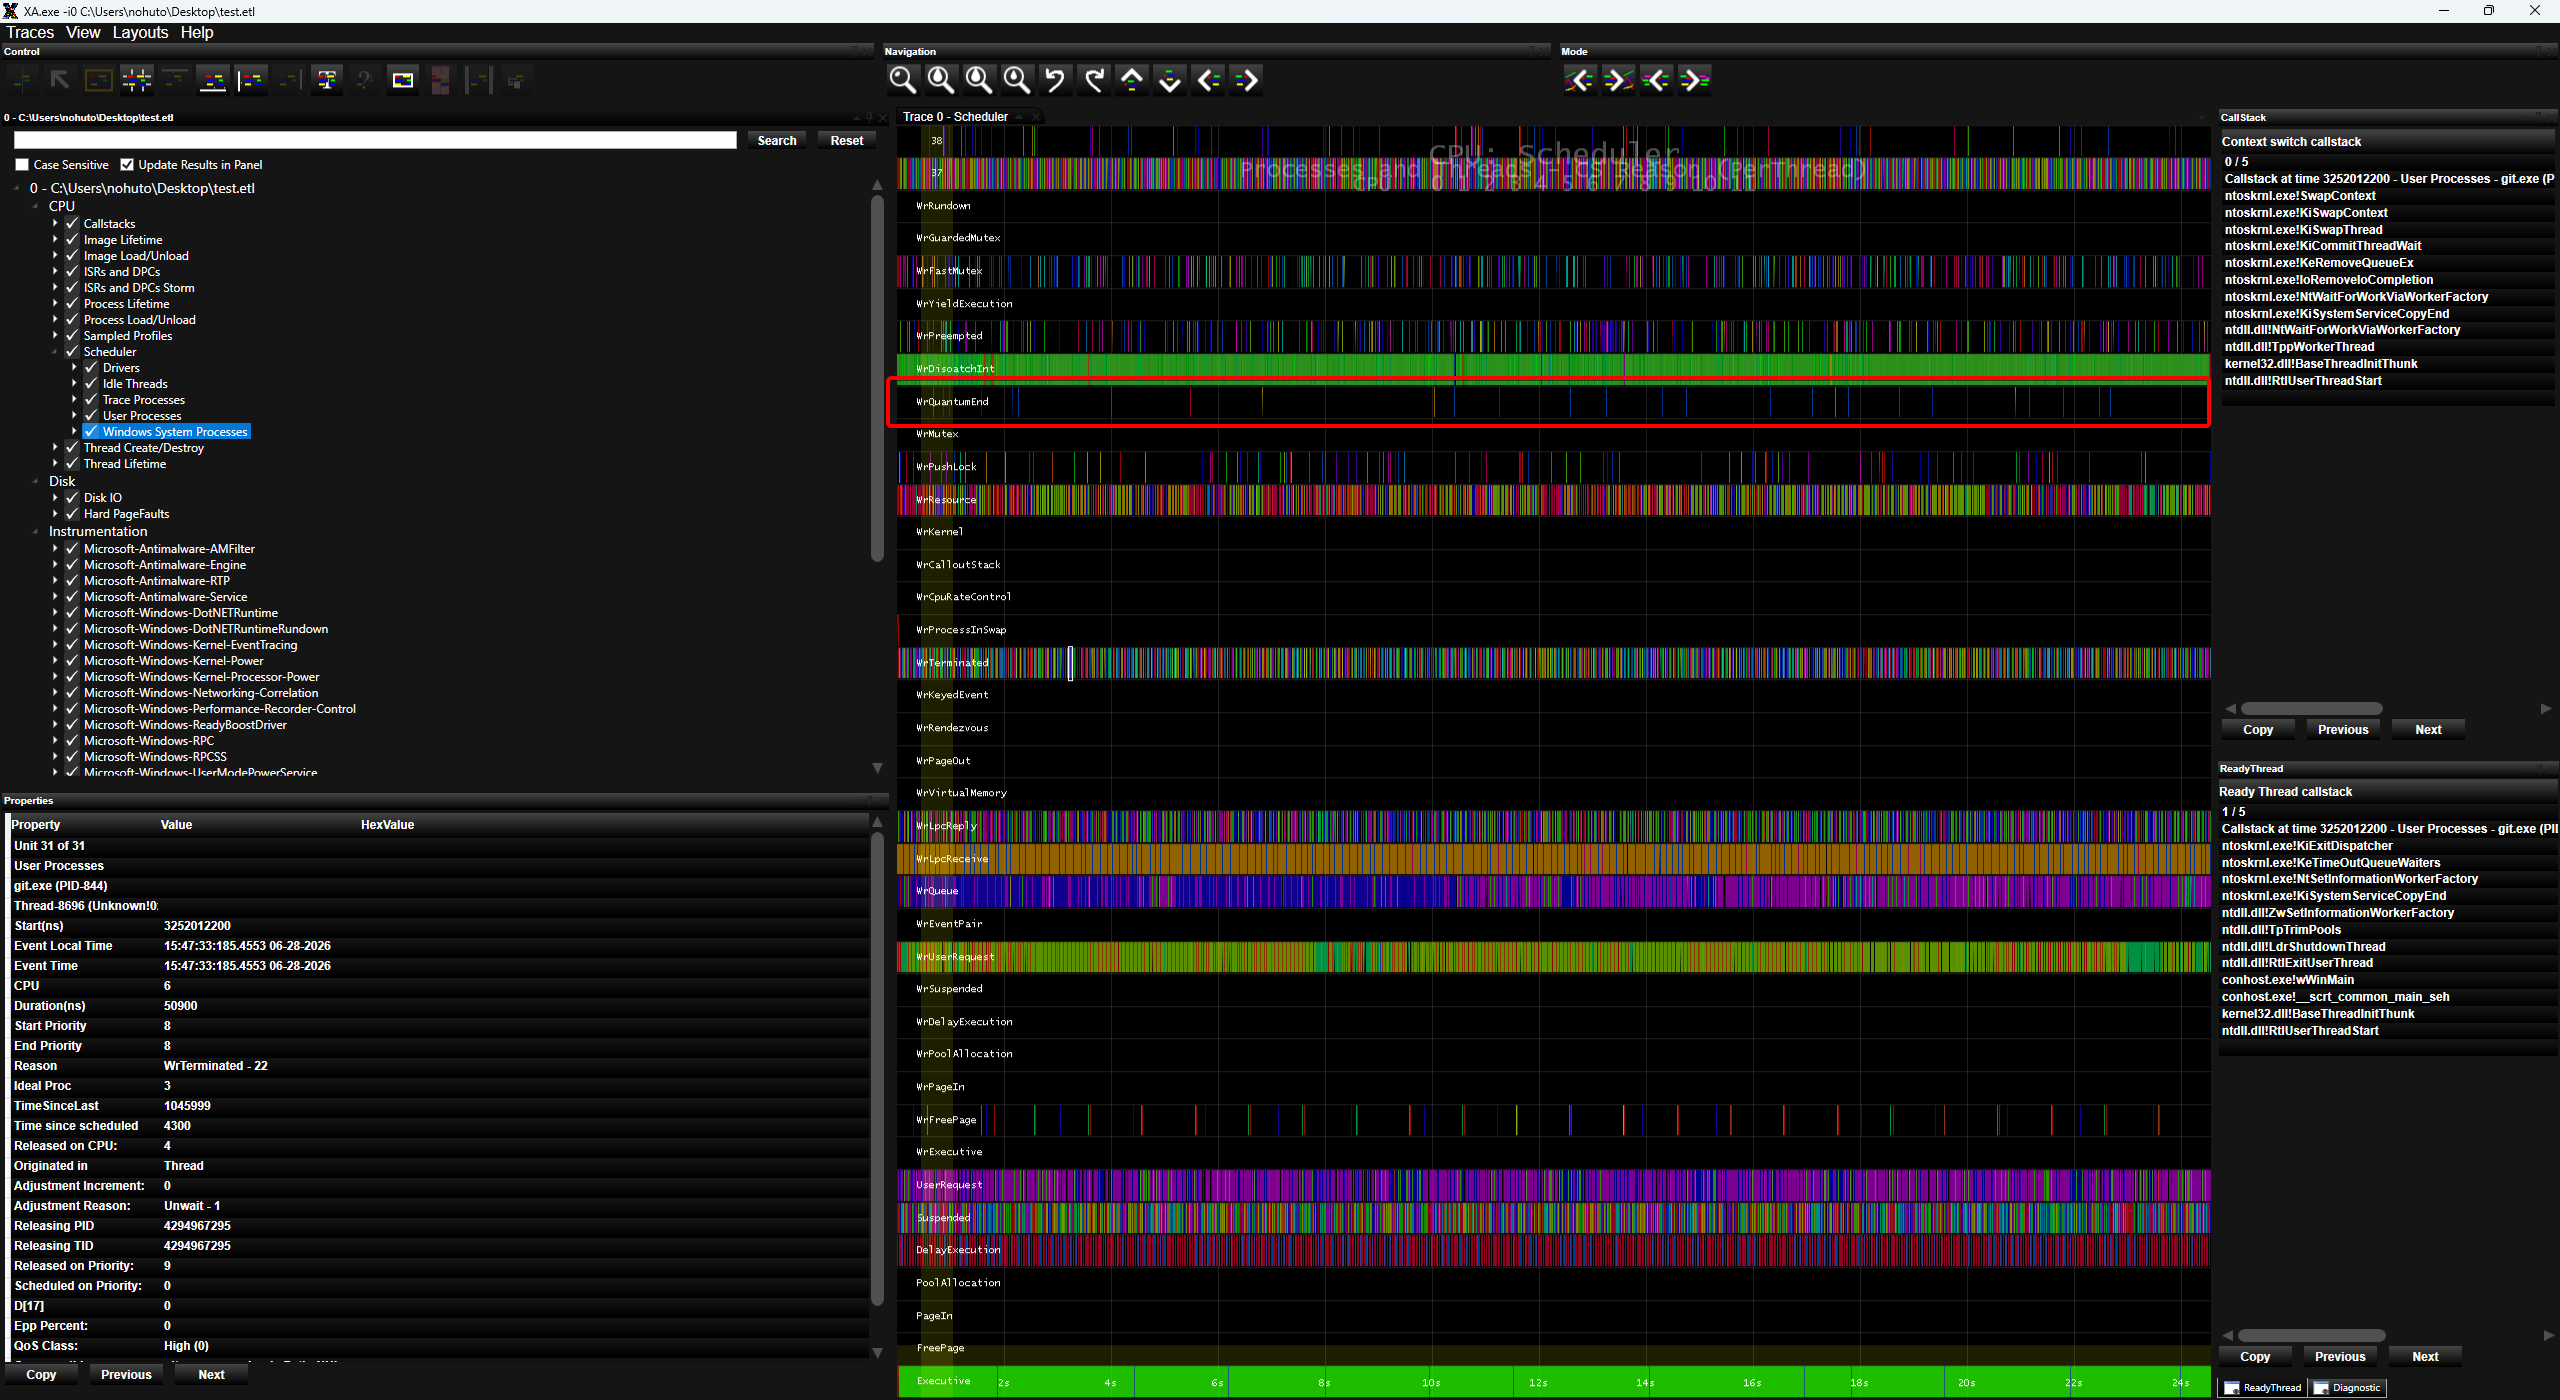
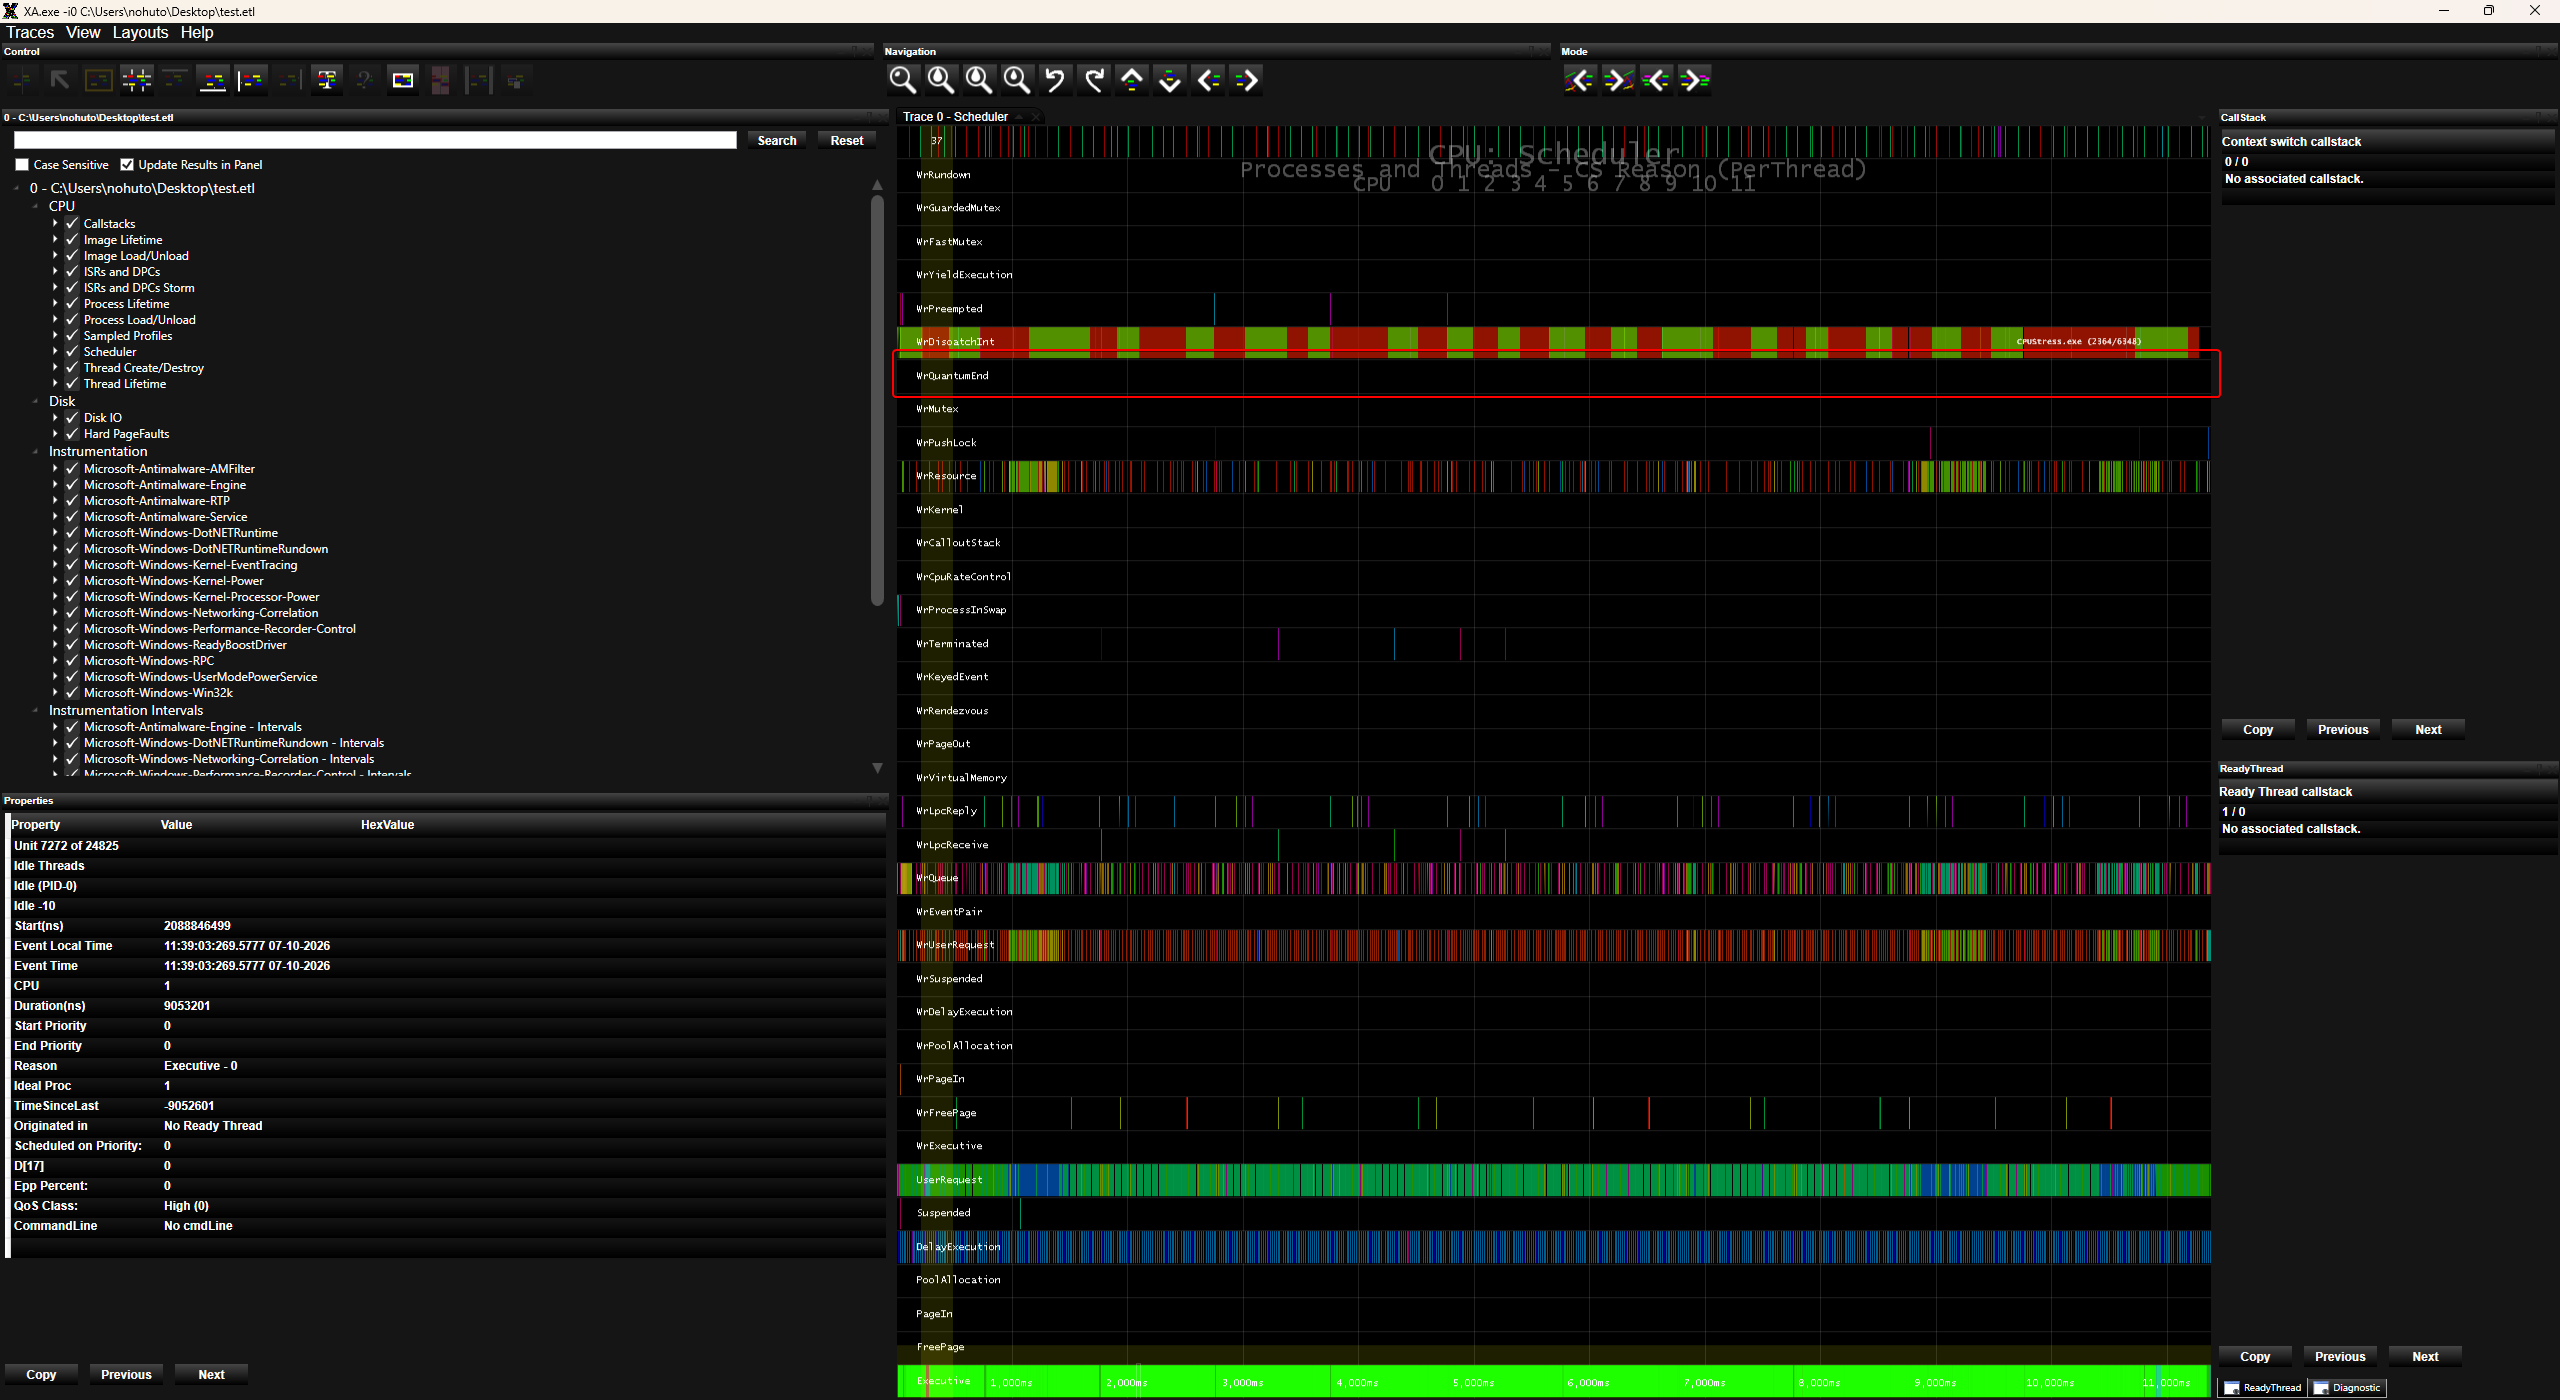
wrquantumend example

diff --git a/system/desc.md b/system/desc.md
@@ -1368,9 +1368,11 @@ I'll use WPR below to capture the boost, if you're not familiar with WPA/MXA, yo
 ![](https://github.com/nohuto/win-config/blob/main/system/images/1-sep.png?raw=true)
 ![](https://github.com/nohuto/win-config/blob/main/system/images/2-sep.png?raw=true)
 
-You can also see if a context switch was caused by `WrQuantumEnd` via '*Processes and Threads - CS Reason*', but note that there've to be two threads with the same priority, otherwise the thread will just get another quantum without a context switch.
+#### WrQuantumEnd CS
 
-See '[Threads, State & Wait Reasons](https://noverse.dev/docs/windbg-notes/threads/thread-activity/#state--wait-reason)' for more details on the topic.
+You can also see if a context switch was caused by `WrQuantumEnd` via '*Processes and Threads - CS Reason*', but note that there've to be two threads with the same priority & processor, otherwise the thread will just get another quantum without a context switch. In the example below I've created two threads with the same priority/affinity using [CPUStress](https://github.com/zodiacon/CPUStress), but as you can see none ever needed more than its quantum in the 10sec record (FG/BG 36QU was used here).
+
+See '[Threads, State & Wait Reasons](https://noverse.dev/docs/windbg-notes/threads/thread-activity/#state--wait-reason)' for more details on the topic & a example on how [`WrQuantumEnd`](https://noverse.dev/docs/windbg-notes/threads/thread-activity/#wrquantumend) works.
 
 ![](https://github.com/nohuto/win-config/blob/main/system/images/WrQuantumEnd.png?raw=true)
 
@@ -6318,7 +6320,7 @@ See [services](https://github.com/nohuto/win-config/blob/main/system/assets/serv
 | --- | --- |
 | `DiagTrack` | The Connected User Experiences and Telemetry service enables features that support in-application and connected user experiences. Additionally, this service manages the event driven collection and transmission of diagnostic and usage information (used to improve the experience and quality of the Windows Platform) when the diagnostics and usage privacy option settings are enabled under Feedback and Diagnostics. |
 | `dmwappushservice` | Routes Wireless Application Protocol (WAP) Push messages received by the device and synchronizes Device Management sessions |
-| `Ndu` | This service provides network data usage monitoring functionality |
+| `Ndu` | This service provides network data usage monitoring functionality, disabling breaks e.g. the Send/Reveice graphcs in task manager, use System Informer anyways which will continue to show the graph |
 | `InventorySvc` | This service performs background system inventory, compatibility appraisal, and maintenance used by numerous system components. |
 | `PcaSvc` | This service provides support for the Program Compatibility Assistant (PCA). PCA monitors programs installed and run by the user and detects known compatibility problems. If this service is stopped, PCA will not function properly. |
 | `wuqisvc` | A Microsoft service producing summary facts and insights related to usage and quality of experience. Facts are used to automate on-device self-healing and other optional workflows, such as Personalized offers. |
